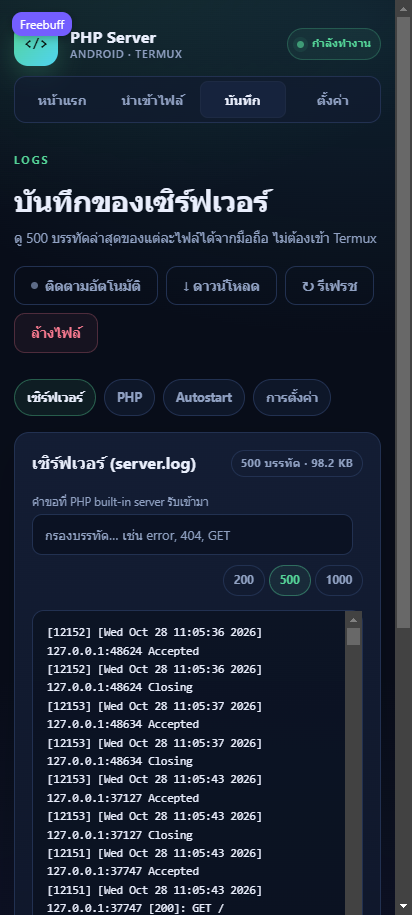
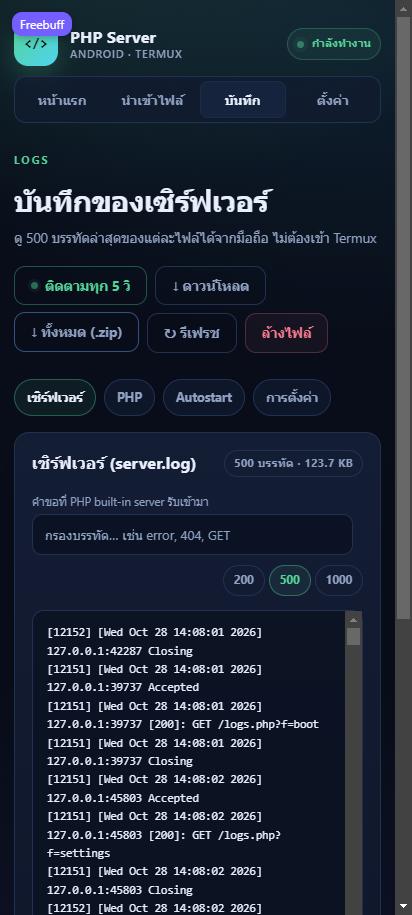
Export every log as one ZIP and summarize PHP errors on the dashboard
Collecting logs off the phone meant downloading four files one by one, and
noticing a PHP problem meant opening the log viewer. The logs page can now
package the existing logs plus an info.txt into a deflate ZIP built in memory
(no temp files, no zip extension needed), and the dashboard counts recent
Fatal/Parse/Warning/Deprecated/Notice lines with the latest one.

Generated with Codebuff 🤖

diff --git a/www/assets/app.css b/www/assets/app.css
@@ -379,6 +379,45 @@ code {
     color: var(--danger);
 }
 
+/* ---------- PHP error summary ---------- */
+
+.error-stats {
+    display: grid;
+    grid-template-columns: repeat(auto-fit, minmax(86px, 1fr));
+    gap: 10px;
+    margin: 4px 0 12px;
+}
+
+.error-stat {
+    padding: 10px 8px;
+    border: 1px solid var(--border);
+    border-radius: 12px;
+    background: rgba(7, 13, 25, 0.55);
+    text-align: center;
+}
+
+.error-stat strong {
+    display: block;
+    font-size: 20px;
+    line-height: 1.3;
+    color: var(--accent);
+}
+
+.error-stat span {
+    color: var(--muted);
+    font-size: 10.5px;
+    letter-spacing: 0.03em;
+}
+
+.error-stat.bad {
+    border-color: rgba(255, 122, 144, 0.3);
+    background: rgba(255, 122, 144, 0.06);
+}
+
+.error-stat.bad strong {
+    color: var(--danger);
+}
+
 /* ---------- status ---------- */
 
 .kv {

diff --git a/www/logs.php b/www/logs.php
@@ -54,6 +54,130 @@ function log_tail(string $file, int $lines = 200): array
     return array_slice($rows, -$lines);
 }
 
+/**
+ * อ่านเนื้อหาไฟล์ท้าย ๆ ไม่เกิน maxBytes (กันไฟล์ใหญ่เกินหน่วยความจำ)
+ */
+function log_tail_bytes(string $file, int $maxBytes = 4 * 1024 * 1024): string
+{
+    $size = (int) @filesize($file);
+    $handle = @fopen($file, 'rb');
+
+    if ($handle === false) {
+        return '';
+    }
+
+    if ($size > $maxBytes) {
+        fseek($handle, $size - $maxBytes);
+    }
+
+    $data = (string) stream_get_contents($handle);
+    fclose($handle);
+
+    return $data;
+}
+
+/**
+ * สร้าง ZIP แบบไม่บีบอัดในหน่วยความจำ (ไม่ต้องใช้ไฟล์ชั่วคราวหรือส่วนขยาย zip)
+ *
+ * @param array<string, string> $files
+ */
+function zip_store(array $files): string
+{
+    $data = '';
+    $central = '';
+    $count = 0;
+    $offset = 0;
+
+    foreach ($files as $name => $content) {
+        $name = (string) $name;
+        $content = (string) $content;
+        $crc = crc32($content);
+        $size = strlen($content);
+        $nameLength = strlen($name);
+
+        // บีบอัดแบบ deflate ถ้าช่วยลดขนาดได้จริง
+        $deflated = function_exists('gzdeflate') ? @gzdeflate($content, 6) : false;
+        $method = $deflated !== false && strlen($deflated) < $size ? 8 : 0;
+        $payload = $method === 8 ? $deflated : $content;
+        $packedSize = strlen($payload);
+
+        $local = "PK\x03\x04"
+            . pack('v', 20)
+            . pack('v', 0x0800)
+            . pack('v', $method)
+            . pack('v', 0)
+            . pack('v', 0)
+            . pack('V', $crc)
+            . pack('V', $packedSize)
+            . pack('V', $size)
+            . pack('v', $nameLength)
+            . pack('v', 0)
+            . $name;
+
+        $data .= $local . $payload;
+
+        $central .= "PK\x01\x02"
+            . pack('v', 20)
+            . pack('v', 20)
+            . pack('v', 0x0800)
+            . pack('v', $method)
+            . pack('v', 0)
+            . pack('v', 0)
+            . pack('V', $crc)
+            . pack('V', $packedSize)
+            . pack('V', $size)
+            . pack('v', $nameLength)
+            . pack('v', 0)
+            . pack('v', 0)
+            . pack('v', 0)
+            . pack('v', 0)
+            . pack('V', 0)
+            . pack('V', $offset)
+            . $name;
+
+        $offset += strlen($local) + $packedSize;
+        $count++;
+    }
+
+    return $data . $central
+        . "PK\x05\x06"
+        . pack('v', 0)
+        . pack('v', 0)
+        . pack('v', $count)
+        . pack('v', $count)
+        . pack('V', strlen($central))
+        . pack('V', $offset)
+        . pack('v', 0);
+}
+
+/**
+ * รวม log ที่มีอยู่เป็น ZIP ให้ดาวน์โหลดครั้งเดียว
+ */
+function logs_zip_payload(array $logs): ?string
+{
+    $entries = [];
+
+    foreach ($logs as $log) {
+        if (!is_file($log['file']) || !is_readable($log['file'])) {
+            continue;
+        }
+
+        $entries[basename($log['file'])] = log_tail_bytes($log['file']);
+    }
+
+    if (!$entries) {
+        return null;
+    }
+
+    $info = 'PHP Server on Android — log export' . "\n"
+        . 'created: ' . date('d/m/Y H:i:s') . "\n"
+        . 'host: ' . (string) ($_SERVER['HTTP_HOST'] ?? '-') . "\n"
+        . 'php: ' . PHP_VERSION . "\n"
+        . 'note: each file contains at most the last 4 MB' . "\n";
+
+    return zip_store(['info.txt' => $info] + $entries);
+}
+
 $fileExists = is_file($currentLog['file']);
 $fileSize = $fileExists ? (int) filesize($currentLog['file']) : 0;
 $fileMtime = $fileExists ? (int) filemtime($currentLog['file']) : 0;
@@ -78,6 +202,27 @@ if ($_SERVER['REQUEST_METHOD'] === 'POST' && ($_POST['action'] ?? '') === 'clear
     }
 
     redirect_to('logs.php?f=' . $current . ($lineLimit === 200 ? '' : '&lines=' . $lineLimit));
+}
+
+// ดาวน์โหลด log ทั้ง 4 ไฟล์เป็น ZIP เดียว
+if (($_GET['download'] ?? '') === 'all') {
+    $zip = logs_zip_payload($logs);
+
+    if ($zip === null) {
+        http_response_code(404);
+        header('Content-Type: text/plain; charset=utf-8');
+        header('Cache-Control: no-store');
+        echo 'ยังไม่มีไฟล์ log ให้ดาวน์โหลด';
+        exit;
+    }
+
+    header('Content-Type: application/zip');
+    header('Content-Disposition: attachment; filename="php-server-logs-' . date('Ymd-Hi') . '.zip"');
+    header('Content-Length: ' . strlen($zip));
+    header('X-Content-Type-Options: nosniff');
+    header('Cache-Control: no-store');
+    echo $zip;
+    exit;
 }
 
 // ดาวน์โหลดไฟล์เต็ม — ชื่อไฟล์มาจาก whitelist ด้านบน ไม่รับ path จากผู้ใช้
@@ -137,6 +282,18 @@ page_start('บันทึก', 'logs');
         <?php endif; ?>
         <?php if ($fileExists): ?>
             <a class="btn ghost" href="logs.php?f=<?= h($current) ?>&amp;download=1">↓ ดาวน์โหลด</a>
+        <?php endif; ?>
+        <?php
+        $anyLogFile = false;
+        foreach ($logs as $log) {
+            if (is_file($log['file'])) {
+                $anyLogFile = true;
+                break;
+            }
+        }
+        ?>
+        <?php if ($anyLogFile): ?>
+            <a class="btn ghost" href="logs.php?f=<?= h($current) ?>&amp;download=all">↓ ทั้งหมด (.zip)</a>
         <?php endif; ?>
         <a class="btn ghost" href="logs.php?f=<?= h($current) ?>&amp;lines=<?= h((string) $lineLimit) ?>">↻ รีเฟรช</a>
         <?php if ($fileExists && $lines): ?>

diff --git a/www/index.php b/www/index.php
@@ -38,6 +38,36 @@ if ($bootLogPath !== '' && is_readable($bootLogPath)) {
     $bootLogLines = array_slice($logLines, -10);
 }
 
+// สรุป error/warning จาก php-error.log (นับเฉพาะ 500 บรรทัดล่าสุด)
+$phpErrorPath = $stateDir === '' ? '' : $stateDir . '/php-error.log';
+$errorTypes = ['Fatal error', 'Parse error', 'Warning', 'Deprecated', 'Notice'];
+$errorCounts = array_fill_keys($errorTypes, 0);
+$errorTotal = 0;
+$lastErrorLine = '';
+
+if ($phpErrorPath !== '' && is_readable($phpErrorPath)) {
+    $phpErrorLines = @file($phpErrorPath, FILE_IGNORE_NEW_LINES | FILE_SKIP_EMPTY_LINES);
+    $phpErrorLines = is_array($phpErrorLines) ? array_slice($phpErrorLines, -500) : [];
+
+    foreach ($phpErrorLines as $line) {
+        foreach ($errorTypes as $type) {
+            if (str_contains($line, $type)) {
+                $errorCounts[$type]++;
+                $errorTotal++;
+                $lastErrorLine = $line;
+                break;
+            }
+        }
+    }
+}
+
+$lastErrorShort = '';
+if ($lastErrorLine !== '') {
+    $lastErrorShort = function_exists('mb_strimwidth')
+        ? mb_strimwidth($lastErrorLine, 0, 160, '…')
+        : (strlen($lastErrorLine) > 160 ? substr($lastErrorLine, 0, 160) . '…' : $lastErrorLine);
+}
+
 $checks = [
     [
         'label' => 'PHP เวอร์ชัน 8.1 ขึ้นไป',
@@ -189,6 +219,41 @@ page_start('ภาพรวมเซิร์ฟเวอร์', 'home');
         ต้องมีแอป Termux:Boot จาก F-Droid และเปิดแอปอย่างน้อยหนึ่งครั้ง
         · หลังรีบูตอาจใช้เวลา 1–3 นาที
     </p>
+</section>
+
+<section class="card" id="php-errors">
+    <div class="card-head">
+        <h2>สุขภาพ PHP (php-error.log)</h2>
+        <span class="tag <?= $errorTotal > 0 ? 'bad' : 'ok' ?>">
+            <?= $errorTotal > 0 ? h((string) $errorTotal) . ' รายการ' : 'ไม่พบ error' ?>
+        </span>
+    </div>
+
+    <?php if ($phpErrorPath === '' || !is_readable($phpErrorPath)): ?>
+        <p class="hint">ยังไม่มีไฟล์ <code>php-error.log</code> — จะถูกสร้างเมื่อ PHP เจอ warning/error</p>
+    <?php else: ?>
+        <div class="error-stats">
+            <?php foreach ($errorCounts as $type => $count): ?>
+                <div class="error-stat<?= $count > 0 ? ' bad' : '' ?>">
+                    <strong><?= h((string) $count) ?></strong>
+                    <span><?= h($type) ?></span>
+                </div>
+            <?php endforeach; ?>
+        </div>
+
+        <?php if ($lastErrorLine !== ''): ?>
+            <p class="hint small">
+                ล่าสุด: <code><?= h($lastErrorShort) ?></code>
+            </p>
+        <?php endif; ?>
+
+        <div class="form-actions">
+            <a class="btn ghost" href="logs.php?f=php">ดู php-error.log</a>
+            <a class="btn ghost" href="logs.php?f=php&amp;lines=500">500 บรรทัดล่าสุด</a>
+        </div>
+    <?php endif; ?>
+
+    <p class="hint small">นับจาก 500 บรรทัดล่าสุดของไฟล์เท่านั้น (ไฟล์ใหญ่อาจมีรายการเก่ากว่านั้น)</p>
 </section>
 
 <section class="card" id="files">

diff --git a/README.md b/README.md
@@ -14,7 +14,7 @@
 
 - **PHP server จริง** ผ่าน PHP built-in server ที่ `127.0.0.1:8080`
 - **Dashboard ภาษาไทย** แสดง PHP version, ระบบ, ดิสก์, เวลา, สถานะความพร้อม, ไฟล์ที่นำเข้า
-  และการ์ด **เปิดอัตโนมัติเมื่อบูต** ที่อ่าน `boot.log` ล่าสุดให้ดูในหน้าเว็บเลย
+  การ์ด **เปิดอัตโนมัติเมื่อบูต** ที่อ่าน `boot.log` ล่าสุด และการ์ด **สุขภาพ PHP** ที่นับ error/warning จาก `php-error.log`
 - **อัปโหลดผ่านเว็บ** เลือกได้หลายไฟล์, ลากมาวาง, แถบความคืบหน้า, เปลี่ยนชื่ออัตโนมัติเมื่อชื่อซ้ำ
 - **นำเข้าจาก Downloads** ทั้งไฟล์เดี่ยว โฟลเดอร์ และ ZIP ผ่านคำสั่งเดียว
 - **จัดการเซิร์ฟเวอร์** ด้วย `start`, `stop`, `restart`, `status`, `logs`, `open`
@@ -22,7 +22,7 @@
 - **PIN + session** ป้องกันทั้งเว็บเมื่อเปิดให้เครื่องอื่นใน Wi-Fi เข้าถึง
 - **หน้าตั้งค่าทางเว็บ** เปลี่ยนพอร์ต/PIN และเปิดโหมด LAN ได้จากเบราว์เซอร์ พร้อมรีสตาร์ตอัตโนมัติและย้อนกลับค่าเดิมถ้าพอร์ตใหม่ไม่ขึ้น
 - **IP + QR code สำหรับ LAN** — หน้า settings แสดง IP ของ Wi-Fi ทุกอินเทอร์เฟซพร้อม QR ให้สแกนเปิดจากเครื่องอื่น
-- **ดู log ผ่านเว็บ** — server, PHP errors, autostart และ settings เลือก 200/500/1000 บรรทัด พร้อมรีเฟรช โหมดติดตามทุก 5 วินาที ตัวกรองบรรทัด ดาวน์โหลด และล้างไฟล์
+- **ดู log ผ่านเว็บ** — server, PHP errors, autostart และ settings เลือก 200/500/1000 บรรทัด พร้อมรีเฟรช โหมดติดตามทุก 5 วินาที ตัวกรองบรรทัด ดาวน์โหลดทีละไฟล์หรือทั้งหมดเป็น ZIP และล้างไฟล์
 - **ความปลอดภัยพื้นฐาน** CSRF token, ปิด directory listing, กัน path traversal, บล็อกไฟล์ซ่อน
 - **ตรวจ secrets ก่อน push** ด้วยสคริปต์ + git hook (`scripts/check-secrets.sh`)
 - **ใช้แบบออฟไลน์ได้** หลังติดตั้งเสร็จ ไม่ต้องต่อเน็ตเพื่อรันเซิร์ฟเวอร์
@@ -40,6 +40,10 @@ Android 16 / HyperOS, PHP 8.5.12 ใน Termux จาก F-Droid)
 | **หน้า PIN (เมื่อตั้ง `UPLOAD_PIN`)** | **การ์ด autostart + `boot.log`** |
 | ![หน้า PIN](docs/images/login.png) | ![การ์ด autostart](docs/images/dashboard-autostart.png) |
 
+**การ์ดสุขภาพ PHP** — สรุป Fatal/Parse/Warning/Deprecated/Notice จาก `php-error.log` พร้อมบรรทัดล่าสุด
+
+![การ์ดสรุป PHP error](docs/images/dashboard-errors.png)
+
 **หน้าตั้งค่า** — เปลี่ยนพอร์ต/PIN และเปิดโหมด LAN ได้จากเบราว์เซอร์ ระบบรีสตาร์ตให้อัตโนมัติ
 และย้อนกลับค่าเดิมถ้าพอร์ตใหม่ไม่ตอบสนอง
 
@@ -55,8 +59,9 @@ Android 16 / HyperOS, PHP 8.5.12 ใน Termux จาก F-Droid)
 
 ![กรองบรรทัดใน log](docs/images/logs-filter.png)
 
-เลือกจำนวนบรรทัดที่แสดง (200 / 500 / 1000) ได้จากปุ่มเหนือรายการ และกด **ล้างไฟล์**
-เมื่อ log บวมเกินไป (มีกล่องยืนยันก่อนลบ)
+เลือกจำนวนบรรทัดที่แสดง (200 / 500 / 1000) ได้จากปุ่มเหนือรายการ กด **ล้างไฟล์**
+เมื่อ log บวมเกินไป (มีกล่องยืนยันก่อนลบ) หรือกด **ทั้งหมด (.zip)** เพื่อดาวน์โหลดทั้ง 4 ไฟล์
+พร้อม `info.txt` ในไฟล์เดียว (บีบอัดแล้ว ~11 KB จาก log ~130 KB)
 
 ![เลือกจำนวนบรรทัดและปุ่มล้างไฟล์](docs/images/logs-tools.png)
 
@@ -492,6 +497,9 @@ PHP 8.5.12) แล้ว:
 - ตัวเลือก 200/500/1000 บรรทัดคืนจำนวนตรงตามที่เลือก (ทั้งหน้าเว็บและ AJAX), ค่าที่ไม่รู้จักกลับเป็น 200
 - ล้าง log: CSRF ผิดไม่แตะไฟล์, CSRF ถูกไฟล์เหลือ 0 ไบต์, เขียนใหม่หลังล้างไม่มี NUL ค้าง (log เปิดแบบ append)
 - หน้า logs ทดสอบบน Chrome ของมือถือจริงแล้ว (ภาพข้างบนถ่ายจากเครื่อง)
+- ZIP รวม log: ตรวจด้วย Python `zipfile` ว่า CRC ถูกทุกไฟล์, เนื้อหาตรงกับไฟล์บนเครื่อง,
+  บีบอัด deflate (130 KB → 11.9 KB) และ endpoint ถูก PIN กัน (302 เมื่อยังไม่ล็อกอิน)
+- การ์ดสุขภาพ PHP: นับได้ตรงกับ log จริง (Deprecated 33 รายการ) และแสดงบรรทัดล่าสุดถูกต้อง
 - หน้า settings: อ่าน IP ของ Wi-Fi ด้วย `net_get_interfaces()` (Termux อ่าน `/proc/net/fib_trie` ไม่ได้)
   และ QR ที่สร้างในเบราว์เซอร์ถอดรหัสกลับเป็น URL ถูกต้องทั้งสองอินเทอร์เฟซ
 - โหมด LAN บนพอร์ตทดสอบ: เรียกผ่าน IP จริงของเครื่องได้, PIN ยังกันหน้าเว็บ (302) และล็อกอินผ่าน IP นั้นได้

diff --git a/docs/usage.md b/docs/usage.md
@@ -161,6 +161,8 @@ APP_TZ=Asia/Bangkok
 - เช็กลิสต์ความพร้อม (PHP, file_uploads, สิทธิ์โฟลเดอร์, พื้นที่ว่าง)
 - การ์ด **เปิดอัตโนมัติเมื่อบูต** — ติดตั้งสคริปต์ boot แล้วหรือยัง, เวลาที่พยายามล่าสุด
   และ 6 บรรทัดท้ายของ `~/.php-server/boot.log` (ใช้ดูว่าหลังรีบูตเซิร์ฟเวอร์ขึ้นจริงไหม)
+- การ์ด **สุขภาพ PHP** — นับ Fatal/Parse/Warning/Deprecated/Notice จาก 500 บรรทัดล่าสุด
+  ของ `php-error.log` พร้อมบรรทัดล่าสุดและลิงก์ไปดู log เต็ม
 - รายการไฟล์ที่นำเข้า พร้อมขนาดและเวลา
 - คำสั่งจัดการเซิร์ฟเวอร์
 
@@ -369,6 +371,8 @@ Autostart และการตั้งค่า กด **ติดตามท
   ไฟล์ใหญ่จะอ่านแค่ 512 KB ท้ายไฟล์เสมอ
 - **ล้างไฟล์** — ปุ่มสีแดงจะถามยืนยันก่อนลบ หลังล้างไฟล์จะเหลือ 0 ไบต์
   และ log ใหม่จะถูกบันทึกต่อได้ตามปกติ (ไม่ต้องรีสตาร์ตเซิร์ฟเวอร์)
+- **ดาวน์โหลดทั้งหมด (.zip)** — รวม 4 ไฟล์ที่มีอยู่ + `info.txt` (เวลา, โฮสต์, PHP)
+  เป็น ZIP เดียว บีบอัดแบบ deflate ไฟล์ละไม่เกิน 4 MB ท้ายไฟล์
 
 หรือดูจาก Termux:
 
